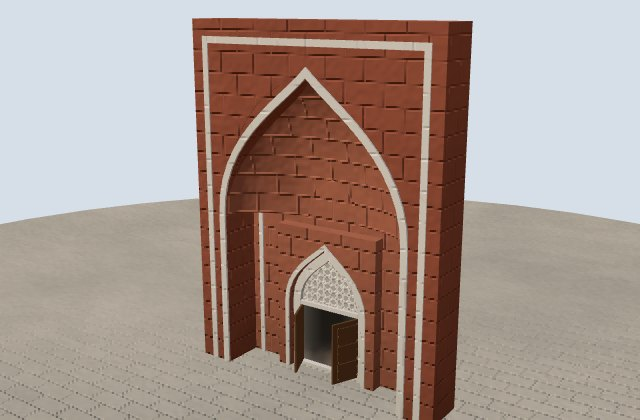
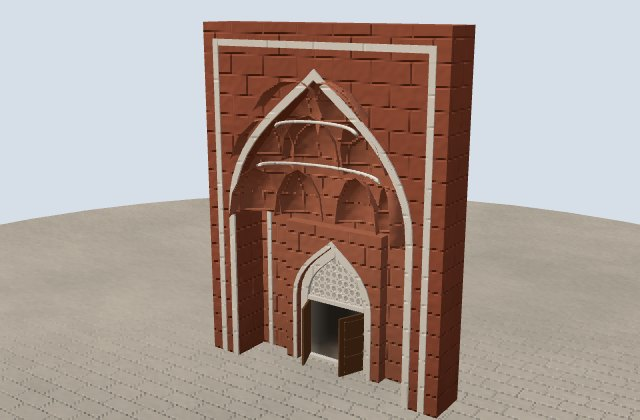
Mughal and Deccan: muqarnas in iwans, inscription bands, Gol Gumbaz petal ring, glazed tile bands at Sher Shah and Qutb Shahi
Claude-Session: https://claude.ai/code/session_01TMbkMUwCUQfd5rFm58379h

diff --git a/js/details/mughal.js b/js/details/mughal.js
@@ -1,5 +1,7 @@
 import * as THREE from 'three';
-import { M, mesh, box, at, rise } from '../helpers.js';
+import { M, mat, mesh, box, at, rise, surface, doubleSided } from '../helpers.js';
+import { mergeGeometries } from 'three/addons/utils/BufferGeometryUtils.js';
+import { detail } from '../detail.js';
 import { archCurve, archRing, archSlab, tympanum, niche, jali, rosette, merlons, mergeByMaterial } from './components.js';
 import { interior, doorLeaves, steps } from './doorways.js';
 
@@ -61,15 +63,67 @@ export function mughalDoorway(w, h, { m, trim = m, depth = Math.max(0.45, w * 0.
   return g;
 }
 
+// Muqarnas: the half-dome of a pointed arch w × h, `depth` deep (as hood() in components.js
+// builds it: a quarter ellipsoid from the springing on the back wall to the crown on the opening),
+// lined with tiers of small faceted cells, each a little scalloped niche corbelled out from the
+// vault, its mouth facing in and down, the tiers staggered by half a cell and separated by fine
+// ledges in `trim`. The cells grow fewer towards the crown, where the vault is left smooth.
+// tiers: how many rows (by default about one per 1.2 m of rise). Faces +z, back at z = 0.
+export function muqarnas(w, h, depth, { m, trim = m, tiers = 0 } = {}) {
+  const r = w / 2, R = rise(r, true), s = h - R, D = depth, T = tiers || Math.max(3, Math.min(10, Math.round(R / 1.2)));
+  const C = new THREE.Vector3(0, s, D), eMax = (Math.PI / 2) * 0.86;
+  const P = (a, e) => new THREE.Vector3(r * Math.cos(a) * Math.cos(e), R * Math.sin(e), -D * Math.sin(a) * Math.cos(e)).add(C);
+  const inward = (p) => { const q = p.clone().sub(C); return new THREE.Vector3(-q.x / (r * r), -q.y / (R * R), -q.z / (D * D)).normalize(); };
+  const cell = new THREE.SphereGeometry(1, 6, 3, 0, Math.PI, 0, Math.PI / 2).rotateY(Math.PI);
+  const mats = [], ledges = [], avg = (r + D) / 2;
+  for (let k = 0; k < T; k++) {
+    const e0 = (k / T) * eMax, e1 = ((k + 1) / T) * eMax, tierH = (e1 - e0) * Math.hypot(R, avg) * 0.72;
+    const n = Math.max(2, Math.round((Math.PI * avg * Math.cos(e0)) / (tierH * 1.15)));
+    const cw = (Math.PI * avg * Math.cos(e0)) / n, cd = Math.min(tierH, cw) * 0.45;
+    for (let i = 0; i < n; i++) {
+      const a = ((i + 0.5 + (k % 2) * 0.5) / (n + (k % 2) * 0.5)) * Math.PI;
+      const p = P(a, e0), z = inward(p), up = P(a, e0 + 0.01).sub(p).normalize();
+      const y = up.sub(z.clone().multiplyScalar(up.dot(z))).normalize(), x = new THREE.Vector3().crossVectors(y, z);
+      const o = p.clone().addScaledVector(z, cd);
+      mats.push(new THREE.Matrix4().makeBasis(x, y, z).scale(new THREE.Vector3(cw * 0.48, tierH, cd)).setPosition(o));
+    }
+    if (k > 0 && !detail.low) {
+      const pts = [];
+      for (let i = 0; i <= 24; i++) { const p = P((i / 24) * Math.PI, e0); pts.push(p.addScaledVector(inward(p), cd * 0.9)); }
+      ledges.push(new THREE.TubeGeometry(new THREE.CatmullRomCurve3(pts), 24, Math.min(0.07, tierH * 0.04), 4, false));
+    }
+  }
+  const g = new THREE.Group(), im = new THREE.InstancedMesh(cell, doubleSided(m), mats.length);
+  mats.forEach((mx, i) => im.setMatrixAt(i, mx));
+  im.castShadow = false;
+  im.receiveShadow = true;
+  g.add(im);
+  if (ledges.length) g.add(mesh(mergeGeometries(ledges.map((t) => t.toNonIndexed())), trim));
+  return g;
+}
+
+// An inscription band round a pishtaq: black letters inlaid in white marble (the 'calligraphy'
+// surface), as a frame `bw` wide standing just proud of the face at z = 0, round a rectangle
+// W wide and up to yt high from y = 0.
+const SCRIPT = surface(mat('#f1ece0', 0.5), 'calligraphy');
+export function scriptFrame(W, yt, bw) {
+  const g = new THREE.Group();
+  for (const x of [-1, 1]) g.add(box(bw, yt, 0.05, SCRIPT, x * (W / 2 - bw / 2), 0, 0));
+  g.add(box(W, bw, 0.05, SCRIPT, 0, yt, 0));
+  return g;
+}
+
 // An iwan: a pointed arch w × h set in a rectangular frame (`frame` each side, `top` above),
 // recessed `depth` with a half-dome over it, outlined in `trim` (a moulded ring and a flat band
 // round the frame, as the white marble lines on red sandstone). At the back, fill: 'door' (a
 // mughalDoorway below the springing and, if there is room, a screened window above it), 'jali' (a
 // pierced screen), or 'none'; door: [width, height] to size the door rather than fill the space.
-// Options: merlons along the top, rosettes in the spandrels, and steps down `stepsDown` metres.
+// Options: merlons along the top, rosettes in the spandrels, and steps down `stepsDown` metres;
+// cells: muqarnas in the half-dome (desktops; on by default from 5 m wide); script: an inscription
+// band round the frame.
 export function iwan(w, h, {
   m, trim = m, shade = m, depth = w * 0.22, frame = w * 0.18, top = w * 0.25, fill = 'door', door = null,
-  band = true, crest = false, rosettes = false, stepsDown = 0,
+  band = true, crest = false, rosettes = false, stepsDown = 0, cells = w >= 5, script = false,
 } = {}) {
   const g = new THREE.Group(), s = h - rise(w / 2, true), W = w + 2 * frame;
   g.add(niche(w, h, true, depth, m, { frame, top, back: shade, inner: false, ring: false, hoodM: shade }));
@@ -96,6 +150,10 @@ export function iwan(w, h, {
     g.add(box(2 * xo + bw, bw, 0.06, trim, 0, yt, depth + 0.01));
   }
   if (rosettes) for (const x of [-1, 1]) g.add(at(rosette(Math.min(frame, top) * 0.3, trim, 8), x * w * 0.38, h - rise(w / 2, true) * 0.12, depth + 0.02));
+  // An inscription band round the frame, outside the trim band, where the frame is wide enough.
+  if (script && frame > 1 && top >= frame * 0.8) { const bw = Math.min(0.9, frame * 0.25), W2 = W - frame * 0.16; g.add(at(scriptFrame(W2, h + top - frame * 0.08 - bw, bw), 0, 0, depth + 0.012)); }
+  // Muqarnas in the half-dome, on desktops (and only in an iwan big enough to show them).
+  if (cells && !detail.low) g.add(muqarnas(w * 0.99, h * 0.99, depth * 0.99, { m: shade, trim }));
   if (crest) g.add(at(merlons(W - 0.2, Math.min(0.8, W * 0.04), Math.min(1.1, W * 0.055), Math.min(0.4, depth * 0.4), m, 0.3), 0, h + top, depth / 2));
   if (stepsDown > 0) g.add(at(steps(Math.min(W, w + 2), stepsDown, Math.max(2, Math.ceil(stepsDown / 0.4)), shade), 0, -stepsDown, depth));
   mergeByMaterial(g);

diff --git a/js/details/qutb-shahi-tombs.js b/js/details/qutb-shahi-tombs.js
@@ -1,5 +1,5 @@
 import * as THREE from 'three';
-import { M, mat, at, onFace, FACES } from '../helpers.js';
+import { M, mat, box, cyl, at, onFace, FACES, surface } from '../helpers.js';
 import { archRing, archSlab, arcadeScreen, petalRing, bracketGeo, placeAll, aroundCircle, mergeByMaterial } from './components.js';
 import { trees, shrubs, lampPosts, scatter, along } from './realism.js';
 
@@ -7,8 +7,11 @@ import { trees, shrubs, lampPosts, scatter, along } from './realism.js';
 // blind arches in moulded rings, crowned by a parapet of small arches; its bulbous dome sits in a
 // cup of lotus petals on the drum; the mosque's minarets carry their balconies on brackets.
 // Dimensions follow tomb(s) in js/monuments/qutb-shahi-tombs.js: chamber w = 20 s square from 8 s
-// to 8 s + 12 s, the dome r = 0.38 w on a drum 2 s high.
+// to 8 s + 12 s, the dome r = 0.38 w on a drum 2 s high. Under the parapet runs a frieze of
+// turquoise glazed tile, and the drum is banded in green tile, as traces of both survive.
 const STONE = mat('#a59a86', 0.9), PLASTER = mat('#cfc4ae', 0.85);
+// The glazed tiles, turquoise and green, that once faced the tombs' friezes and drums.
+const TURQ = surface(mat('#2f9a9a', 0.45), 'tiles'), GREEN = surface(mat('#4f7a5c', 0.5), 'tiles');
 function architecture(f) {
   const d = new THREE.Group();
   for (const [x, z, s] of [[0, 0, 1.3], [-60, -20, 1], [56, -24, 1.05], [-40, 50, 0.85], [40, 54, 0.9], [-90, 40, 0.7], [90, 20, 0.75]]) {
@@ -20,8 +23,12 @@ function architecture(f) {
         t.add(onFace(at(archRing(aw, ah, true, 0.22 * s, 0.1, STONE), 0, y, 0), a, w / 2, k * w * 0.3));
       }
       t.add(onFace(at(arcadeScreen(w - 0.4, 1.3 * s, 9, 0.6 * s, 0.9 * s, 0.3 * s, PLASTER), 0, y0 + h, 0), a, w / 2 - 0.2 * s));
+      // A frieze of glazed tile under the parapet, above the upper arches.
+      t.add(onFace(box(w - 0.6, 0.7 * s, 0.06, TURQ, 0, y0 + h - 1.0 * s, 0.03), a, w / 2));
     }
-    const r = 0.38 * w;
+    const r = 0.38 * w, top = y0 + h;
+    // A band of green tile round the drum (tapering from 0.4 w to 0.36 w over 2 s).
+    t.add(cyl(w * 0.3874, w * 0.3954, 0.9 * s, GREEN, 0, top + 0.4 * s, 0, 24));
     t.add(at(petalRing(r * 0.86, 20, r * 0.6, r * 0.4, 0.55, PLASTER, 0.3), 0, y0 + h + 2 * s + r * 0.02, 0));
     d.add(t);
   }

diff --git a/js/details/sher-shah-suri-tomb.js b/js/details/sher-shah-suri-tomb.js
@@ -1,13 +1,16 @@
 import * as THREE from 'three';
-import { M, mat, box, cyl, at, onFace, FACES } from '../helpers.js';
+import { M, mat, box, cyl, at, onFace, FACES, surface } from '../helpers.js';
 import { merlonGeo, placeAll, alongFace, archRing, archSlab, frieze, petalRing, bracketGeo, mergeByMaterial } from './components.js';
 import { trees, boats, asiBoard, scatter } from './realism.js';
 
 // Sher Shah Suri's Tomb, finer detail. From photographs: a carved frieze runs under the cornice of
 // each octagonal storey, which is carried on brackets and crested with merlons; the faces of the
 // stepped platform are opened in blind arcades and its edge is crested too; and the dome rises from
-// a moulded ring to a lotus at its crown. Dimensions follow js/monuments/sher-shah-suri-tomb.js.
+// a moulded ring to a lotus at its crown, its drum banded in blue and yellow glazed tile (the
+// arches' muqarnas come with iwan(), js/details/mughal.js). Dimensions follow js/monuments/sher-shah-suri-tomb.js.
 const STONE = mat('#c39a6e', 0.88), SHADE_ = mat('#a27b52', 0.9);
+// Glazed tiles, blue and yellow, of which traces survive on the drum and the parapets.
+const BLUE = surface(mat('#2f6fa8', 0.45), 'tiles'), YELLOW = surface(mat('#e0b43c', 0.45), 'tiles');
 function architecture(f) {
   const d = new THREE.Group(), mg = merlonGeo(1, 1.2, 0.5);
   for (const [r, h, y0] of [[22, 13, 8], [17, 7, 21]]) {
@@ -33,6 +36,8 @@ function architecture(f) {
   }
   d.add(placeAll(merlonGeo(0.9, 1, 0.5), list, SHADE_));
   d.add(cyl(14.3, 14.3, 0.5, SHADE_, 0, 30.6, 0, 40));
+  // Bands of glazed tile round the drum (r = 14, from 28 to 31) under the moulded ring.
+  d.add(cyl(14.05, 14.05, 0.7, BLUE, 0, 28.5, 0, 32), cyl(14.05, 14.05, 0.5, YELLOW, 0, 29.4, 0, 32), cyl(14.05, 14.05, 0.5, BLUE, 0, 30.0, 0, 32));
   d.add(at(petalRing(1.9, 14, 2, 1.0, 0.55, STONE), 0, 44.4, 0));
   mergeByMaterial(d);
   f.add(d);

diff --git a/js/details/gol-gumbaz.js b/js/details/gol-gumbaz.js
@@ -6,7 +6,8 @@ import { trees, shrubs, asiBoard, along } from './realism.js';
 // Gol Gumbaz, finer detail. From photographs: the great cornice near the top of the walls projects
 // on rows of carved brackets; a parapet of merlons crowns the walls; each storey of the seven-storey
 // corner towers opens in an arched window on every face; a lotus ring sits round the foot of the
-// dome's finial. Dimensions follow js/monuments/gol-gumbaz.js: base b = 1.5, walls H = 27, s = 23.75.
+// dome's finial, and a ring of petals round the dome's foot (the iwans' muqarnas come with
+// iwan(), js/details/mughal.js). Dimensions follow js/monuments/gol-gumbaz.js: base b = 1.5, walls H = 27, s = 23.75.
 function architecture(f) {
   const d = new THREE.Group(), b = 1.5, H = 27, s = 23.75, D = M.deccan, Dl = M.deccanLight, list = [];
   for (const a of FACES) {
@@ -24,6 +25,8 @@ function architecture(f) {
     d.add(t);
   }
   d.add(at(petalRing(1.6, 14, 2.2, 1.1, 0.55, Dl), 0, b + H + 2.6 + 21.6, 0));
+  // The ring of petals the dome rises from, round its foot on the drum (r = 22).
+  d.add(at(petalRing(22.3, 52, 4, 2.5, 0.2, Dl, 0.3), 0, b + H + 2.4, 0));
   mergeByMaterial(d);
   f.add(d);
 }

diff --git a/js/monuments/gol-gumbaz.js b/js/monuments/gol-gumbaz.js
@@ -1,5 +1,5 @@
 import * as THREE from 'three';
-import { M, box, cyl, at, onFace, FACES, archPanel, onionDome, hemi, finial } from '../helpers.js';
+import { M, box, cyl, at, onFace, FACES, onionDome, hemi, finial } from '../helpers.js';
 import { iwan, arcadeSkin, cellRow } from '../details/mughal.js';
 import { addDetails } from '../details/gol-gumbaz.js';
 
@@ -26,9 +26,8 @@ export function buildGolGumbaz() {
     }
     f.add(at(onionDome(3.7, Dl), x, b + 35, z), at(finial(3), x, b + 35 + 6.6, z));
   }
-  // Drum ringed with leaf-shaped petals, then the great dome
+  // The drum, then the great dome (the ring of petals round its foot: js/details/gol-gumbaz.js)
   f.add(cyl(23.5, 23.5, 2.6, D, 0, b + H, 0, 64));
-  for (let k = 0; k < 40; k++) f.add(onFace(at(archPanel(3.4, 4.4, true, Dl, 0.5), 0, b + H + 1.6, 0), (k / 40) * Math.PI * 2, 21.8));
   f.add(at(hemi(22, Dl, 64), 0, b + H + 2.6, 0));
   f.add(at(finial(4), 0, b + H + 2.6 + 21.9, 0));
   addDetails(f, g);

diff --git a/architecture.md b/architecture.md
@@ -117,8 +117,8 @@ for (const a of FACES) d.add(onFace(at(windowFrame(2, 4.2, M.cream, { shape: 'fl
 | Arch wall with its ring | Iwan | Niche |
 | ![Window with a jali screen](img/window-jali.jpg) | ![Classical door](img/classical-door.jpg) | ![Gothic window](img/gothic-window.jpg) |
 | Window with a jali screen | Classical door | Gothic window |
-| ![Temple doorway](img/temple-doorway.jpg) |   |   |
-| Temple doorway |   |   |
+| ![Temple doorway](img/temple-doorway.jpg) | ![Iwan with muqarnas and an inscription band](img/muqarnas.jpg) |   |
+| Temple doorway | Iwan with muqarnas and an inscription band |   |
 
 | Part | File | What it is |
 | --- | --- | --- |
@@ -127,7 +127,9 @@ for (const a of FACES) d.add(onFace(at(windowFrame(2, 4.2, M.cream, { shape: 'fl
 | `archRing(archW, archH, pointed, band, depth, m)` | components | The moulded ring round an arch's opening |
 | `niche(archW, archH, pointed, depth, m)` | components | An arched niche with a half-dome hood |
 | `barrelVault(radius, length, m)` | helpers | The underside of a barrel vault |
-| `iwan(w, h, { m, trim, depth })` | mughal | The great arched recess of a Mughal gate or tomb front, with its door |
+| `iwan(w, h, { m, trim, depth, cells, script, rosettes })` | mughal | The great arched recess of a Mughal gate or tomb front, with its door; muqarnas in its half-dome on desktops (`cells`, on from 5 m wide), an inscription band round its frame (`script`) |
+| `muqarnas(w, h, depth, { m, trim, tiers })` | mughal | Tiers of small faceted cells lining the half-dome of a pointed arch, staggered, with fine ledges between the tiers |
+| `scriptFrame(W, yt, bw)` | mughal | An inscription band of black letters inlaid in white marble round a pishtaq |
 | `mughalDoorway(w, h, { m })` | mughal | A pointed doorway onto a dim room |
 | `arcadeSkin(len, h, cells, depth, m)` | mughal | A wall face cut into a row of arched cells, each a door, a screen or a room |
 | `windowFrame(w, h, m, { shape, screen })` | components | A window in a stone surround; `screen: jali(m)` fills it with a pierced screen |

diff --git a/components.md b/components.md
@@ -41,8 +41,8 @@ From [architecture.md](architecture.md).
 | Arch wall with its ring | Iwan | Niche |
 | ![Window with a jali screen](img/window-jali.jpg) | ![Classical door](img/classical-door.jpg) | ![Gothic window](img/gothic-window.jpg) |
 | Window with a jali screen | Classical door | Gothic window |
-| ![Temple doorway](img/temple-doorway.jpg) |   |   |
-| Temple doorway |   |   |
+| ![Temple doorway](img/temple-doorway.jpg) | ![Iwan with muqarnas and an inscription band](img/muqarnas.jpg) |   |
+| Temple doorway | Iwan with muqarnas and an inscription band |   |
 
 ### [Walls, eaves and parapets](architecture.md#walls-eaves-and-parapets)
 
